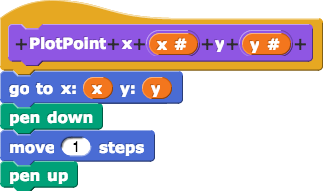
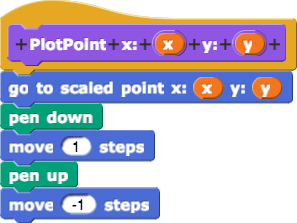
U5L2 Updates and TG

diff --git a/cur/teaching-guide/U5/lab-pages/2-graphing-data-functions.html b/cur/teaching-guide/U5/lab-pages/2-graphing-data-functions.html
@@ -9,39 +9,49 @@
     <body>
         <h2>Programming Lab 2: Graphing Data and Functions</h2>
         <div class="todo">This grapher <em>should</em>, when we revise, become the grapher used in the U4 analysis of Burger whatever.</div>
-		<p>It is easier to compare the efficiency of the two algorithms if we can visualize the data we get from timing experiments. In this lab, students create a general graphing program that plots data points on a screen whose dimensions (scale) they have determined themselves. This graphing program also has the option of taking a function as input and producing its Cartesian graph.</p>
-		<p>Students will use this grapher to visualize timing data on their algorithms, and will later use it for some of their data-processing explorations.</p> 
-		
+		<p>It is easier to compare the efficiency of the two algorithms if we can visualize the data we get from timing experiments. In this lab, students create a general graphing program that plots data points on a screen whose dimensions (scale) they have determined themselves. They then work with a dataset on a classroom of 27 sixth-graders and isolate various data subsets to create graphs of height vs. weight, age vs. height, age vs. weight, etc.</p>
+        <p>This graphing program also has the option of taking a function as input and producing its Cartesian graph. On the last page, students explore using the app to plot a function such as <span class="katex">-5 + (x-3)^2</span>.</p> 
+        <p>
+            The graphing app that students build differs from many traditional graphing programs in that it requires hovering the mouse over the stage to input the <span class="katex">x</span>-values into the function, produce the points of the graph, and plot them. This is done for two reasons, one pedagogical and one practical:
+            <ol>
+                <li><strong>pedagogical</strong>: inputting the <code>mouse x</code> value into the function to get the corresponding <span class="katex">y</span> values supports understanding both what this grapher is doing and the underlying mathematics of functions (e.g. unlike the <code>Graph datapoints</code> procedure, which begins with a complete set of <span class="katex">x</span> and <span class="katex">y</span> coordinates, the <code>Graph function</code> procedure needs to <em>generate</em> <span class="katex">y</span> values based on <em>inputed</em> <span class="katex">x</span> values&mdash;this is known to be a challenge in understanding functions for beginning algebra students)</li>
+                <li><strong>practical</strong>: this approach makes use of what students already know about programming (e.g. how to read the mouse location and how to adjust it based on the graph scale) rather than working through the complicated algorithm of making subdivisions necessary to get a consistent curve</li>
+            </ol>
+        </p>
+        	
 
 		<h3>Pacing:</h3>
 		<div>
-			The X lab pages could be split across X or X days (X-X minutes). Expected times to complete follow:
-			<ul>
-				<li>X-X minutes (X class period) on <a href="/bjc-r/cur/programming/5-algorithms/2-graphing/1-building-a-grapher.html?topic=nyc_bjc%2F5-algorithms.topic&course=bjc4nyc_2015-2016.html&novideo&noassignment">Building a Graphing App</a></li>
-				<li>X-X minutes (X class period) on <a href="/bjc-r/cur/programming/5-algorithms/2-graphing/2-improving-a-grapher.html?topic=nyc_bjc%2F5-algorithms.topic&course=bjc4nyc_2015-2016.html&novideo&noassignment">Improving Your Grapher</a></li>
-				<li>X-X minutes (X class period) on <a href="/bjc-r/cur/programming/5-algorithms/2-graphing/3-graphing-functions.html?topic=nyc_bjc%2F5-algorithms.topic&course=bjc4nyc_2015-2016.html&novideo&noassignment">Graphing Functions</a></li>
+			The 3 lab pages could be split across 3 or 4 days (90-150 minutes). Expected times to complete follow:
+		  <ul>
+				<li>30-50 minutes (1 class period) on <a href="/bjc-r/cur/programming/5-algorithms/2-graphing/1-building-a-grapher.html?topic=nyc_bjc%2F5-algorithms.topic&course=bjc4nyc_2015-2016.html&novideo&noassignment">Building a Graphing App</a></li>
+				<li>40-60 minutes (1-2 class period) on <a href="/bjc-r/cur/programming/5-algorithms/2-graphing/2-improving-a-grapher.html?topic=nyc_bjc%2F5-algorithms.topic&course=bjc4nyc_2015-2016.html&novideo&noassignment">Improving Your Grapher</a></li>
+				<li>20-40 minutes (&lt;1 class period) on <a href="/bjc-r/cur/programming/5-algorithms/2-graphing/3-graphing-functions.html?topic=nyc_bjc%2F5-algorithms.topic&course=bjc4nyc_2015-2016.html&novideo&noassignment">Graphing Functions</a></li>
 			</ul>
 		</div>        
         
         
-        <h3>Prepare:</h3>
+        <!--<h3>Prepare:</h3>
 		<div>
 			<ul>
 				<li></li>
 			</ul>
-		</div>
+		</div>-->
 
 
         <h3>Students will:</h3>
 		<div class="sidenoteBig">
 			<strong>Looking Ahead</strong>
 			<ul>
-				<li></li>
+				<li>Students will use this graphing app to visualize timing data on their algorithms and will later use it for some of their data-processing explorations.</li>
 			</ul>
 		</div>
 		<div>
 			<ul>
-				<li>...</li>
+				<li>Create a graphing program that plots data points.</li>
+                <li>Work with a scaling feature to  adjust screen dimensions.</li>
+                <li>Isolate and graph various data subsets.</li>
+                <li>Use their graphing program to graph a function.</li>
 			</ul>
 		</div> 
 			  
@@ -53,15 +63,10 @@
                     <strong>Page 1: Building a Graphing App.</strong>
                     <ul>
                         <li>
-                            Discussion: These discussion questions cover...
+                            Discussion: You may wish to discuss as a class...
                             <ul>
-                                <li></li>
-                            </ul>
-                        </li>
-                        <li>
-                            Discussion: These questions help students ... :
-                            <ul>
-                                <li></li>
+                            	<li>Why might you want to set the scale of the screen?</li>
+                                <li>Describe how this setup works to set the scale of the data on the stage?</li>
                             </ul>
                         </li>
                     </ul>
@@ -70,10 +75,7 @@
                     <strong>Page 2: Improving Your Grapher.</strong>
                     <ul>
                         <li>
-                            Discussion: After students work through the lab page, you might ask these questions:
-                            <ul>
-                                <li></li>
-                            </ul>
+                            Discussion: After students work through the lab page, discuss this question as a group: <strong>What can you say about this particular class based on the data?</strong> Have students share and describe some of the graphs they created to support their observations.
                         </li>
                     </ul>
                 </li>
@@ -81,9 +83,10 @@
                     <strong>Page 3: Graphing Functions.</strong>
                     <ul>
                         <li>
-                            Discussion: These questions are designed to inspire students to think about... :
+                            Discussion: You may wish to address these questions as students work on the page (e.g. after reading, but before going too far with the For You to Do exercise) in order to encourage students to think about how <code>Graph function</code> works:
                             <ul>
-                            	<li></li>
+                            	<li>What are some similarities and differences between the <code>Graph datapoints</code> and <code>Graph function</code> procedures?</li>
+                                <li>How does the <code>Graph function</code> procedure determine what points to plot?</li>
                             </ul>
                         </li>
                     </ul>
@@ -95,7 +98,7 @@
         <h3>Assignments:</h3>
 		<div>
         	<ul>
-        		<li>	Students create U5L2-Grapher program that takes a function (or data points) as one of its inputs and produces its Cartesian graph.</li>
+        		<li>	Students create U5L2-GraphingApp program that takes a function (or data points) as one of its inputs and produces its Cartesian graph.</li>
         	</ul>
         </div>
 
@@ -111,7 +114,7 @@
         <h3>Tips:</h3>
         <div>
             <ul>
-                <li>
+                <!--<li>
                     <strong>Page 1: Building a Graphing App.</strong>
                     <ul>
                         <li></li>
@@ -122,11 +125,19 @@
                     <ul>
                         <li></li>
                     </ul>
-                </li>
+                </li>-->
                 <li>
                     <strong>Page 3: Graphing Functions.</strong>
                     <ul>
-                        <li></li>
+                        <li>As students saw with higher-order-functions in Unit 3, Snap<em>!</em> uses a blank input slot to represent the variable element of a function. You may need to review this. There is a description in the orange box toward the top of <a href="/bjc-r/cur/programming/3-lists/3-three-key-list-ops/2-map.html?topic=nyc_bjc%2F3-lists.topic&course=bjc4nyc_2015-2016.html&novideo&noassignment">"The <code>Map</code> Block" page in Unit 3</a> (starting with "The gray ring...").</li>
+                        <li>
+                            You may wish to suggest other functions for students to graph with their app, such as:
+                            <ul>
+                            	<li><img class="inline" src="/bjc-r/img/blocks/round-a-number.png" alt="round ( )" title="round ( )" /></li>
+                            	<li><img class="inline" src="/bjc-r/img/5-algorithms/e^of().png" alt="e^ of ( )" title="e^ of ( )" /></li>
+                            	<li><img class="inline" src="/bjc-r/img/5-algorithms/sin-of-100().png" alt="sin of ( (100) × ( ) )" title="sin of ( (100) × ( ) )" /></li>
+                            </ul>
+                        </li>
                     </ul>
                 </li>
             </ul>

diff --git a/cur/programming/5-algorithms/2-graphing/2-improving-a-grapher.html b/cur/programming/5-algorithms/2-graphing/2-improving-a-grapher.html
@@ -9,35 +9,58 @@
 	<body>
 		<h2>Improving Your Grapher</h2>
         <div class="todo">
-        	<ul>
-            	<ol>
-                	<li>examining the graph (reporting coordinates)</li>
-                    <li>zooming in on a section</li>
-                </ol>
-            </ul>
+        	<p>I'm not sure what this list is for. Al thinks it may have been addressed. If so, please delete. If not, please say more. --MF</p>
+            <ol>
+                <li>examining the graph (reporting coordinates)</li>
+                <li>zooming in on a section</li>
+            </ol>
+        </div>
+        <p>
+        	On this page, you'll work with a dataset on a classroom of 27 sixth-graders. You will create a graph of height vs. weight, showing the boys and girls in different colors that also allows you to examine individual datapoints to see their approximate values, like this:<br />
+			<img class="indent" src="/bjc-r/img/5-algorithms/GraphingDataSet.gif" alt="animation of a data set being graphed">
+		</p>
+        <div class="forYouToDo" id="first">
+			<ol>
+				<li>Load your graphing app from before; it should be saved as "U5L2-GraphingApp."</li>
+                <li>
+                    Look in the Variables palette for this dataset on a classroom of 27 sixth-graders: <img class="inline" src="/bjc-r/img/5-algorithms/Gr6-age-height-weight-gender-stats.png" alt="Gr6-age-height-weight-gender-stats" title="Gr6-age-height-weight-gender-stats" />. Each data point in this set contains <em>four</em> items:
+					<ul>
+                        <li>age in month</li>
+	                    <img class="imageRight" src="/bjc-r/img/icons/talk-with-your-partner.png" alt="Talk with Your Partner" title="Talk with Your Partner" />
+                        <li>height in centimeters</li>
+                        <li>weight in kilograms</li>
+                        <li>gender</li>
+                    </ul>
+                    Your graphing app was written to expect only <em>two</em> numbers in each datapoint. Will it even work with this dataset? Try it. What does it do?
+                </li>
+                <li>
+                    Create custom blocks that report:
+                    <ul>
+                        <li><code>ages</code>&mdash;a list containing only the 27 ages</li>
+                        <li><code>heights</code>&mdash;only the 27 heights</li>
+                        <li><code>weights</code>&mdash;only the 27 weights</li>
+                    </ul>
+                </li>
+                <li>
+                	<div class="sidenote">You've built averaging blocks before.</div>
+                    Create a block that takes a list of numbers as input and reports the <em>average</em> value.
+                </li>
+                <li>Create a block, <code>female data</code>, using <code>keep</code>, that reports a list containing all the datapoints of only the girls, and another block, <code>male data</code>, that does the same for the boys.</li>
+                <li>You now have everything you need to create a graph of height vs. weight, showing the boys and girls in different colors that also allows you to examine individual datapoints to see their approximate values, as shown in the animation above. Build it.</li>
+                <li>
+					<img class="imageRight" src="/bjc-r/img/icons/talk-with-another-pair.png" alt="Talk with Another Pair" title="Talk with Another Pair" />
+                    Use the tools you have built to create a few separate graphs: age against height or weight, height against weight, separated or not separated by gender—and <em>also mark the averages</em> in each case.  <strong>What can you say about this particular class based on the data?</strong>
+                </li>
+                <li>You probably needed to reset the window scale for some of these graphs. Searching through the data to find the lowest and highest values can be a nuisance. Create tools to do that for you. </li>
+            </ol>
         </div>
         
-        <div class="forYouToDo" id="first">
-    	  <ol>
-          	<li>You have another dataset on one classroom of 27 sixth-graders: <img src="/bjc-r/img/5-algorithms/Gr6-age-height-weight-gender-stats.png" alt="Gr6-age-height-weight-gender-stats">. Each data point in this set contains <em>four</em> items:  age in months, height in centimeters, weight in kilograms, and gender. Your grapher was written to expect only <em>two</em> numbers in each datapoint. Will it even work with this dataset? Try it. What does it do?</li>
-            <li>Create a block that reports a list containing only the 27 ages. <p>Create another block that reports only the 27 heights.</p> <p>Create another block that reports only the 27 weights.</p> <p>Create a block that takes any list of numbers as input and reports the <em>average</em> value.</p></li>
-            <li>Create a block, using <code>keep</code>, that reports a list containing all the datapoints of only the girls, and another block that does the same for the boys.</li>
-            <li>You now have everything you need to create a graph of height against weight, showing the boys and girls in different colors, and also allowing you to examine individual datapoints to see their approximate values. Here's an example of such a graph.</li>
-     </ol></div>
-        <img class="indent" src="/bjc-r/img/5-algorithms/GraphingDataSet.gif" alt="animation of a data set being graphed">
-        <div class="forYouToDo">
-         <ol start="5">
-            	<li>Use your tools to create a few separate graphs—age against height or weight, height against weight, separated or not separated by gender—and <em>also mark the averages</em> in each case. What can you say about this particular class based on the data?</li>
-                <li>You probably needed to reset the window scale for some of these graphs. Searching through the data to find the lowest and highest values can be a nuisance. Create tools to do that for you. </li>
-                
-    		</ol>
-		</div>
-        
         <div class="takeItFurther">
-    <ol type="A">
-        <li>The graph above shows <em>three</em> aspects of each child in the class. Find some suitable way to give some information about the fourth element of the data. Pensize is one possibility, but you might find a different way.</li>
+            <ol type="A">
+				<li>The graph above shows <em>three</em> aspects of each child in the class (height, weight, and gender). Find some suitable way to give some information about the fourth element of the data (age). Pen size is one possibility, but you might find a different way.</li>
+            </ol>
+        </div>
         
-    </ol>
-</div>
+        
     </body>
 </html>

diff --git a/cur/programming/5-algorithms/2-graphing/3-graphing-functions.html b/cur/programming/5-algorithms/2-graphing/3-graphing-functions.html
@@ -8,30 +8,37 @@
 
 	<body>
 		<h2>Graphing Functions</h2>
-        <div class="todo">
-            <ol>
-                <li>building the function-grapher using the same PlotPoint</li>
-                <li>putting x in your hands</li>
-                <li>rescaling</li>
-            </ol>
-        </div>
+        <p>
+            Your <code>PlotPoint</code> and <code>set window scale</code> procedures can be used for graphing <em>functions</em> as well as plotting data points, but you'll need to build a different graphing block that doesn't expect a list of points but instead takes a function as input and runs that function with varying values of <span class="katex">x</span> to generate points to plot.<br />
+            <img class="indent" src="/bjc-r/img/5-algorithms/graph-datapoints-DerekData1927to2015.png" alt="Graph datapoints DerekData1927to2015" title="Graph datapoints DerekData1927to2015" /><br />
+            <img class="indent" src="/bjc-r/img/5-algorithms/graph-function-(-5)+((()-(3))squared).png" alt="Graph function (-5) + ( ( ( ) - (3) ) squared)" title="Graph function (-5) + ( ( ( ) - (3) ) squared)" />
+        </p>
+        <p><code>Graph function</code> will need to plot the function in your graphing window; so it needs to know where the stage is. It can get that information from your mouse's position on the stage, and you already have a tool (<code>x value at stage coord</code>) that will translate the mouse’s position appropriately.</p>
+            
+        <div class="endnote">This graphing program will work a little differently than some others that you may have seen; it will not graph the function automatically but will instead let you "draw" the graph on the stage by dragging your mouse across the stage to provide the function input (<span class="katex">x</span>) values.</div>
         
-        <p>The same <code>PlotPoint</code> and <code>set window scale</code> can be used for graphing functions, but you'll need to build a different grapher that doesn't expect a list of points but instead takes a function as input and <em>runs</em> that function with varying values of <em>x</em> to generate the points.  </p>
-        <p>You already have a tool that will translate the mouse position on the stage into appropriate <em>x</em> values based on the scale of the screen. So the position of your mouse can represent <em>x</em>. <img src="/bjc-r/img/5-algorithms/x-value-at-stage-coord-(mouse-x).png" alt="x-value-at-stage-coord-(mouse-x)"></p>
-        <p><code>PlotPoint</code> can use that as <em>x</em>, and so can your function. And your function's output is <code>PlotPoint</code>'s <em>y</em>. So all you need is to be able to "call" that function with the right input, and use its value in <code>PlotPoint</code>. <img src="/bjc-r/img/5-algorithms/call(function)with-inputs(x-value-at-stage-coordinate(mouse-x)).png" alt="call(function)with-inputs(x-value-at-stage-coordinate(mouse-x))"></p>
-        <p>You are used to placing reporters (including functions) in input slots, but what you get is the <em>value</em> of the function at that moment, not the function itself, that you can evaluate at many different moments.  To give  <img src="/bjc-r/img/5-algorithms/Graph-function.png"  alt="Graph-function"> a function as input, you must define it to <em>expect</em> a function as input. </p>
-        <p><img class="indent" src="/bjc-r/img/5-algorithms/Block-and-input-name-editors-showing-reporter-type-input.png" alt="Block-and-input-name-editors-showing-reporter-type-input"></p>
+        <p>
+        	<code>PlotPoint</code> can use <img class="inline" src="/bjc-r/img/5-algorithms/x-value-at-stage-coord-(mouse-x).png" alt="x-value-at-stage-coord-(mouse-x)"> as <span class="katex">x</span>, and so can your function. Your function's output is <code>PlotPoint</code>'s <span class="katex">y</span>. So you can <code>call</code> your function with that input, and use that value in <code>PlotPoint</code>.<br />
+			<img class="indent" src="/bjc-r/img/5-algorithms/call(function)with-inputs(x-value-at-stage-coordinate(mouse-x)).png" alt="call(function)with-inputs(x-value-at-stage-coordinate(mouse-x))">
+        </p>
+        <p>
+        	<!--You are used to placing reporters (including functions) in input slots, but what you get is the <em>value</em> of the function at that moment, not the function itself, that you can evaluate at many different moments.  -->To give  <img src="/bjc-r/img/5-algorithms/Graph-function.png"  alt="Graph-function"> a function as input, you must define it to <em>expect</em> a function as input:<br />
+        	<img class="indent" src="/bjc-r/img/5-algorithms/Block-and-input-name-editors-showing-reporter-type-input.png" alt="Block-and-input-name-editors-showing-reporter-type-input">
+        </p>
 
         <div class="forYouToDo" id="first">
             <ol> 
-                <div class="sidenoteBig">Leave one slot in your function blank to indicate where the value of "x" will go. The block <code>squared</code> shown here is not a Snap! primitive; if you want something like that, you will need to build it yourself.</div>
                 <li>Build <img src="/bjc-r/img/5-algorithms/Graph-function.png"  alt="Graph-function"> and try it out with any function you like, for example, <img src="/bjc-r/img/5-algorithms/function-((-5)-plus-(()-plus-(-3))-squared.png"  alt="function-((-5)-plus-(()-plus-(-3))-squared">. </li>
+                <div class="sidenoteBig">The block <code>squared</code> shown here is not a Snap! primitive (built-in block). If you want something like that, you will need to build it yourself.</div>
+                <div class="takeNote">Leave one slot in your function blank to indicate where the value of <span class="katex">x</span> will go.</div>
             </ol>
         </div>
 		
-        <div class="dialogue">
+        <!--<div class="dialogue">
             <div><span>Betsy: </span> This will make some of our homework a snap! </div>
             <div><span>Gamal: </span> Aw, <em>snap!</em></div>
-		</div>
+		</div>-->
+        
+        
     </body>
 </html>

diff --git a/cur/programming/5-algorithms/2-graphing/1-building-a-grapher.html b/cur/programming/5-algorithms/2-graphing/1-building-a-grapher.html
@@ -10,6 +10,7 @@
 		<h2>Building a Graphing App</h2>
         <p>
             Plotting a single point, given its two coordinates, should feel this simple:<br />
+            <div class="sidenoteBig">Notice that the last block returns the sprite to its original location. This keeps the block <em>state transparent</em>&mdash;leaving things where they are when you started. You want each procedure to do its thing and otherwise leave things the same so you don't have any surprises. (You saw an example of a bug from a program that was <em>not state transparent</em> in <a href="/bjc-r/cur/programming/1-introduction/4-building-and-debugging/5-debugging-blocks-within-blocks.html?topic=nyc_bjc%2F1-intro-loops.topic&course=bjc4nyc_2015-2016.html&novideo&noassignment">Unit 1</a>.)</div>
             <img class="indent" src="/bjc-r/img/5-algorithms/PlotPoint-simple.png" alt="PlotPoint block using go to x y, pendown, move 1, penup">
 		</p>
         <p>Then you could graph a whole list of data points by inventing a block like <img src="/bjc-r/img/5-algorithms/GraphDatapoints.png" alt="Graph datapoints (pointlist)"> that uses <code>for each</code> to apply <code>PlotPoint</code> to each point in the list. Depending on the kind of graph you want, you could even connect the dots.</p>
@@ -18,12 +19,12 @@
         	<img class="indent" src="/bjc-r/img/5-algorithms/PercentageOfDerekByYear.png" alt="percentage of births named Derek by year" title="percentage of births named Derek by year" />
         </p>
 		<p>The <em>x</em>-values can't be plotted because they are completely off of Snap<em>!</em>'s stage. And the <em>y</em>-values 0, 0.1, 0.2, 0.3, etc., are so close to each other that they would all look the same. We wouldn't see the huge increase in popularity between 1960 and 1980 at all. </p>
-        <div class="takeNote">A good grapher needs to let the user set the <strong>scale</strong> of the screen, to specify where to focus attention&mdash;where to zoom in. </div>
+        <div class="takeNote">A good graphing app needs to let the user set the <strong>scale</strong> of the screen, to specify where to focus attention&mdash;where to zoom in. </div>
         
         <div class="forYouToDo" id="first">
             <ol>
                 <li>
-                    Load <a class="run" href="/bjc-r/prog/5-algorithms/U5L2-GrapherStarter.xml">this Snap<em>!</em> project.</a> It contains several blocks already built for your convenience.
+                    Load <a class="run" href="/bjc-r/prog/5-algorithms/U5L2-GraphingApp.xml">this Snap<em>!</em> project.</a> It contains several blocks already built for your convenience.
                     <ol>
                         <li>Click  the <code>set window scale</code> block with the inputs it already has (-2, 4, 30, 300) to see what it does. In addition to drawing on the screen, it sets several variables that your other blocks will need so that they know the intended screen dimensions. </li>
                         <li>
@@ -43,7 +44,8 @@
                         </li>
                     </ol>
                 </li>
-                <li><div class="commentBig">I made several changes here too&mdash; both for clarity and to set the student up for the next step. Please review as I'm not 100% sure I interpreded your intentions correctly. --MF</div>Experiment with various inputs to <code>set window scale</code> to see where it puts the axes and how it represents the &quot;substitutes&quot; for the axes, when the axes can't be shown. Then, change the inputs of <code>set window scale</code> back to (1927, 2014, 0, 0.5).</li>
+                <li>
+                  <div class="commentBig">I made several changes here too&mdash; both for clarity and to set the student up for the next step. Please review as I'm not 100% sure I interpreted your intentions correctly. --MF</div>Experiment with various inputs to <code>set window scale</code> to see where it puts the axes and how it represents the &quot;substitutes&quot; for the axes, when the axes can't be shown. Then, change the inputs of <code>set window scale</code> back to (1927, 2014, 0, 0.5).</li>
                 <li>
                 	Build <img src="/bjc-r/img/5-algorithms/go-to-scaled-point-x-y.png" alt="go to scaled point">. 
                     <p>On the baby name graph for Derek, the point (1971, 0.25) is roughly in the middle of the screen.  Check to see if <img src="/bjc-r/img/5-algorithms/go-to-scaled-point-x(1971)-y(0.25).png" alt="go-to-scaled-point-x(1971)-y(0.25)"> is working as you expect it to.</p>
@@ -53,6 +55,7 @@
                 <li>
                 	Finally, build <img src="/bjc-r/img/5-algorithms/GraphDatapoints.png" alt="Graph datapoints (pointlist)"> to make a dot at every datapoint, but <em>not</em> to connect the points (for now). Apply it to <code>DerekData1927to2015</code>. Your graph won't be connected and won't have labels, and it will fill the whole stage, but it should otherwise look like the graph above.<br />
                 	<img class="indent" src="/bjc-r/img/5-algorithms/grapher-result.jpg" alt="graph of DerekData1927to2015" title="graph of DerekData1927to2015" />
+					<img class="imageRight" src="/bjc-r/img/icons/save-now.png" alt="Now Is a Good Time to Save" title="Now Is a Good Time to Save" />
                 </li>
             </ol>
         </div>
